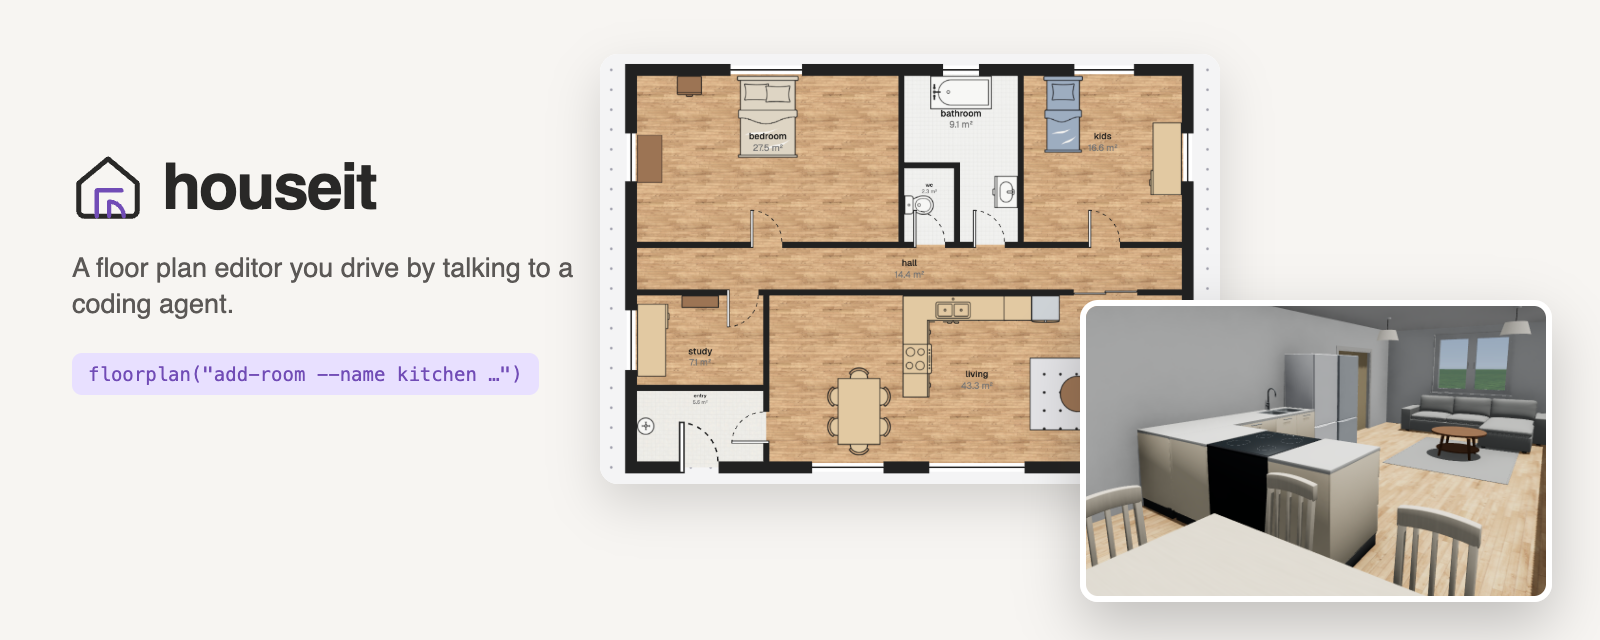
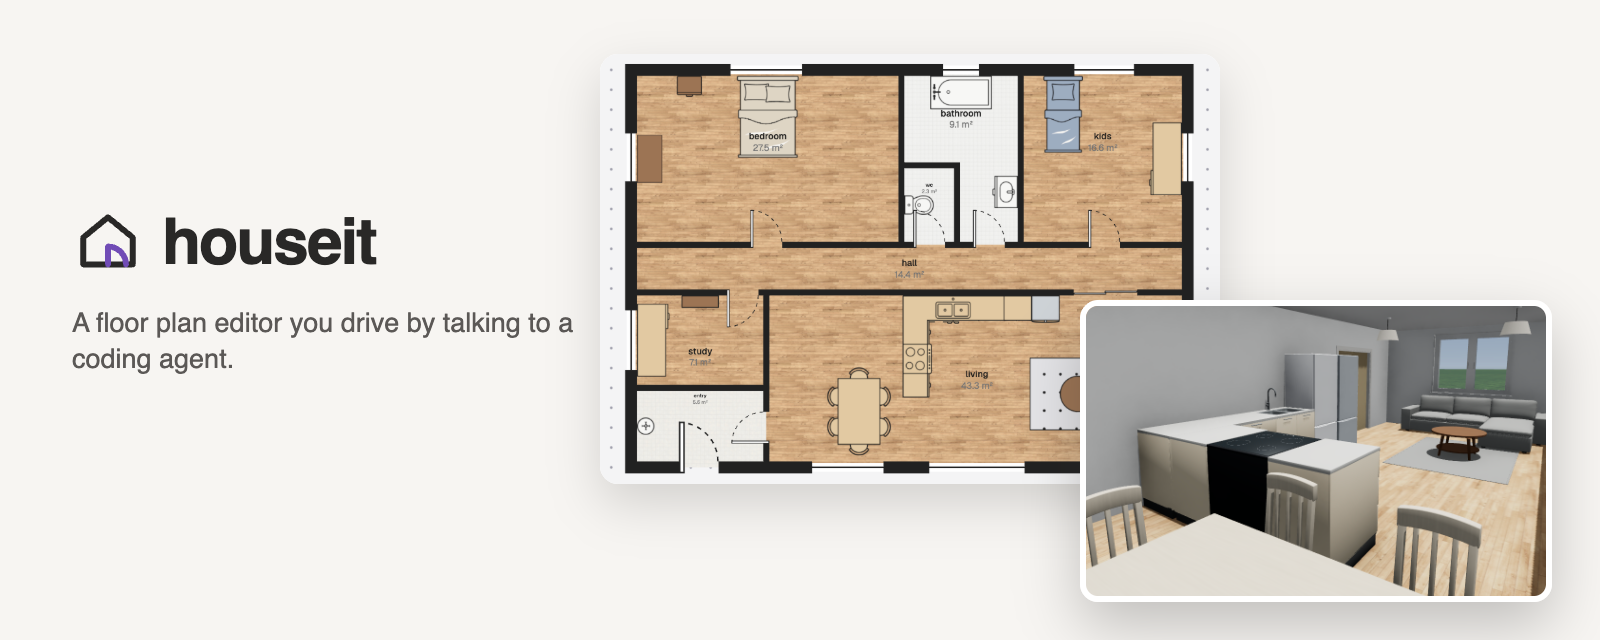
Simpler mark, and a README that is a front page rather than a manual
The logo is now a house outline with a door swinging open in plan, the
door in violet: two strokes, legible at favicon size. It replaces the old
mark in the editor, its favicon, the docs site and the banner. The
banner loses its command line, and the README loses the CLI walkthrough,
the command language and the package table, all of which live in the
documentation.

Changed region(s): [[0.0312, 0.25, 0.375, 0.4375], [0.0312, 0.4688, 0.375, 0.5938]]

diff --git a/website/components/logo.tsx b/website/components/logo.tsx
@@ -5,23 +5,15 @@ export function Logo({ className = 'size-6' }: { className?: string }) {
     <svg
       viewBox="0 0 32 32"
       fill="none"
+      strokeWidth="2.6"
       strokeLinecap="round"
       strokeLinejoin="round"
       className={className}
       role="img"
-      aria-label="houseit: the outline of a house with a door swinging open"
+      aria-label="houseit: a house with a door swinging open"
     >
-      <path
-        d="M16 3.5 29 14.3V26.5a2.5 2.5 0 0 1-2.5 2.5h-21A2.5 2.5 0 0 1 3 26.5V14.3Z"
-        stroke="currentColor"
-        strokeWidth="2.2"
-      />
-      <path d="M11 29V17.5h11" stroke="var(--color-fd-primary)" strokeWidth="2" />
-      <path
-        d="M16.5 29v-6.5a6.5 6.5 0 0 1 6.5 6.5"
-        stroke="var(--color-fd-primary)"
-        strokeWidth="1.9"
-      />
+      <path d="M5 26V14L16 5l11 9v12M5 26h22" stroke="currentColor" />
+      <path d="M16 26v-8a8 8 0 0 1 8 8" stroke="var(--color-fd-primary)" />
     </svg>
   )
 }

diff --git a/README.md b/README.md
@@ -99,42 +99,6 @@ Then say what you want — *"a 12 by 9 metre house, kitchen on the west, two bed
 along the north"* — and watch the tab. With no Chrome on the debugging port the server
 starts one headless; run `scripts/chrome.sh` first if you want to watch.
 
-### Or drive it yourself
-
-The CLI is the same registry, the same bridge and the same tab:
-
-```bash
-node apps/mcp/dist/cli.js --project my-house \
-  add-room --shape l --width 12m --depth 9m --notch-width 4m --notch-depth 3m \
-  --name house --material natural-oak
-node apps/mcp/dist/cli.js 'add-room --name kitchen --from house --side west --width 3.6m --material tile-white'
-node apps/mcp/dist/cli.js 'add-opening --room kitchen --kind door --side east'
-node apps/mcp/dist/cli.js 'add-object --room kitchen --type kitchen-l --against north --surface oak'
-node apps/mcp/dist/cli.js --picture /tmp/kitchen.jpg get-plan --room kitchen
-```
-
-A whole script can go on standard input — `node apps/mcp/dist/cli.js - < plan.txt` — and runs
-as one transaction: every line lands, or none does.
-
-## The command language
-
-Four nouns and one question. Coordinates are an output of the design, not an input: you
-name rooms and compass sides, the way you would on site.
-
-```
-add-level      --name "first floor" [--height 2.7m]
-add-room       --name kitchen --from house --side west --width 3.6m --material tile-white
-update-room    --room kitchen --side east --by 300          # move the wall between two rooms
-add-opening    --room kitchen --kind window --side north --width 1.2m
-add-object     --room kitchen --type sofa-3 --against south --surface linen
-update-object  --id f3 --against west --rotation 90
-remove-object  --id f3
-get-plan       --room kitchen
-```
-
-The full reference is in the [documentation](https://empatixx.github.io/houseit/docs), and an
-agent reads the live one through `floorplan("help")`.
-
 ## Features
 
 | Area | What it does |
@@ -157,21 +121,6 @@ bun run test                # vitest through turbo
 bun run typecheck && bun run lint && bun run depcruise && bun run knip
 bun run build               # runs every check above, then builds the editor and the CLI
 ```
-
-The repository is a Bun + Turborepo monorepo:
-
-| Package | Responsibility |
-|---|---|
-| `packages/core` | Document schema, migrations, hosts, catalogue data |
-| `packages/geometry` | Rooms derived from wall topology, dimensions, placement |
-| `packages/commands` | Typed commands, parser, validation, answers and checks |
-| `packages/scene` | Renderer-independent pieces, materials and furniture models |
-| `packages/bridge` | The contract between the browser and the CLI/MCP driver |
-| `apps/editor` | React + three.js editor, interaction tools, project storage |
-| `apps/mcp` | Node CLI and MCP server, driving Chrome over CDP |
-
-Architecture and package boundaries are in [TECHNOLOGY.md](TECHNOLOGY.md); the working
-rules for changing the code are in [CLAUDE.md](CLAUDE.md).
 
 ## Contributing
 
